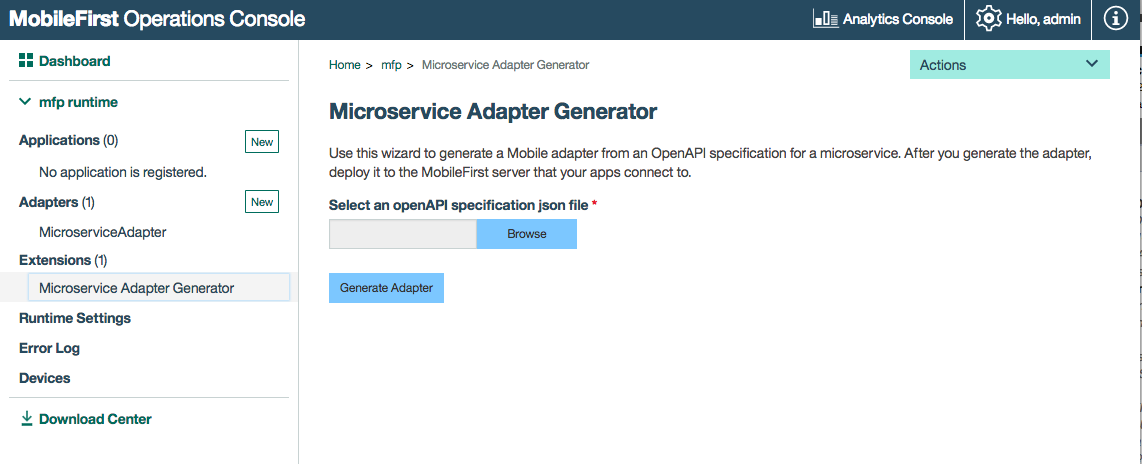
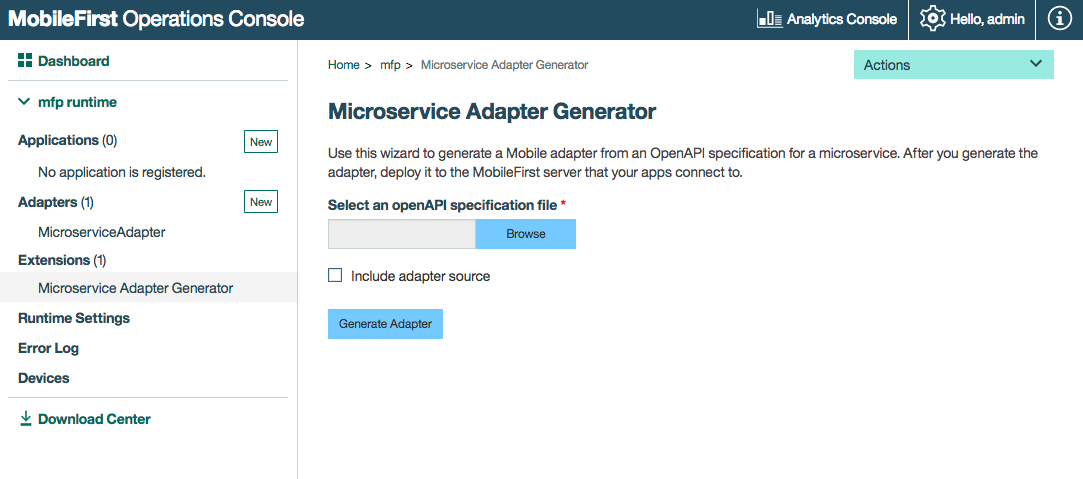
Added support for yaml, API-KEY and adapter source download

diff --git a/_posts/2017/2017-08-10-autogenerate-adapter-from-openapi-specification.md b/_posts/2017/2017-08-10-autogenerate-adapter-from-openapi-specification.md
@@ -29,7 +29,7 @@ An adapter can be created using either Maven commands or by using the MobileFirs
 The OpenAPI Specification, originally known as the Swagger Specification, is a specification for machine-readable interface files for describing, producing, consuming, and visualizing RESTful Web services. OpenAPI specification is adopted by many companies as the industry standard for defining REST APIs. OpenAPI specifications are the key to supporting a great toolchain for developers and is used for documenting the REST APIs. One of the greatest benefits of using OpenAPI Specification is that it can be used to generate the client libraries in a variety of programming languages, these client APIs can be used easily to transfer and retrieve information from the backend systems and services.
 
 ## Auto-generation of Adapter from OpenAPI Specification
-IBM MobileFirst Foundation Platform provides an extension Adapter that can be used to auto-generate adapters from OpenAPI specification. The extension adapter takes an OpenAPI specification json and generates the adapter from the Open API specification, using the client libraries generated from the OpenAPI specification, it then downloads the generated adapters. The adapter that is generated and downloaded can then be deployed to Mobile Foundation Server and can directly be used by the client applications. This takes the pain out from developers who would otherwise need to spend substantial time on developing the adapters instead of focusing on building the client applications.
+IBM MobileFirst Foundation Platform provides an extension Adapter that can be used to auto-generate adapters from OpenAPI specification. The extension adapter takes an OpenAPI specification, either json or yaml file, and generates the adapter from the Open API specification, using the client libraries generated from the OpenAPI specification, it then downloads the generated adapters. The adapter that is generated and downloaded can then be deployed to Mobile Foundation Server and can directly be used by the client applications. You can optionally download the adapter source code as zip file. The adapter source file can be modified and the adapter can be re-built. This takes the pain out from developers who would otherwise need to spend substantial time on developing the adapters instead of focusing on building the client applications.
 
 ***Note:**  Adapter Generation Feature is available on Mobile Foundation Devkits only. To use the adapter generation feature, JDK must be installed on the machine where Mobile Foundation is installed and the **JAVA_HOME** environment variable should  be set to the installed JDK path.*
 
@@ -44,7 +44,7 @@ IBM MobileFirst Foundation Platform ships an Extension Adapter, called Microserv
 
 ![Download Microservice Connector]({{site.baseurl}}/assets/blog/2017-08-10-autogenerate-adapter-from-openapi-specification/microservice-connector-in-downloadcenter-tools.png)
 
-Once deployed the Adapter will appear under the **Extensions** category in the left navigation pane of the MobileFirst Operations Console. Clicking the **Microservice Adapter Generator** will open the page where one can select the OpenAPI specification json of the microservice/backend system, to generate the adapter. Once the adapter is generated, the generated adapter will be automatically downloaded. Note that the first request to generate the adapter can take a while as Mobile Foundation needs to download a lot of maven dependencies that are requried for the adapter generation. The subsequent generation will be faster as maven dependencies are already stored in Maven local repository.
+Once deployed the Adapter will appear under the **Extensions** category in the left navigation pane of the MobileFirst Operations Console. Clicking the **Microservice Adapter Generator** will open the page where one can select the OpenAPI specification (.json or .yaml file) of the microservice/backend system, to generate the adapter. Once the adapter is generated, the generated adapter will be automatically downloaded. Optionally you can also download the adapter source code as zip and modify the adapter and can be re-built. Note that the first request to generate the adapter can take a while as Mobile Foundation needs to download a lot of maven dependencies that are requried for the adapter generation. The subsequent generation will be faster as maven dependencies are already stored in Maven local repository.
 
 ![Microservice Connector]({{site.baseurl}}/assets/blog/2017-08-10-autogenerate-adapter-from-openapi-specification/microservice-adapter-generator-ui.png)
 
@@ -53,7 +53,9 @@ The correctness of the adapter generated depends on the OpenAPI specification. T
 
 #### Add Security in OpenAPI specification
 
-For the adapter to connect to backend systems, security definitions should be added to the OpenAPI specification. Adapter generator supports **BASIC** authentication only. Authentication types such as **API Key** and **OAUTH2** is not supported currently, for connecting to backend systems. For **BASIC** authentication, security definition specification needs to be added to the specification json
+For the adapter to connect to backend systems, security definitions should be added to the OpenAPI specification. Adapter generator supports **BASIC** and **API Key** authentication only. 
+
+For **BASIC** authentication, security definition specification needs to be added to the specification file. Here is a json sample :
 
 ```javascript
     "securityDefinitions": {
@@ -65,6 +67,24 @@ For the adapter to connect to backend systems, security definitions should be ad
     "security": [
     {
         "basicAuth": []
+    }
+    ]
+
+```
+
+For **API Key**authentication, security definition specification needs to be added to the specification file. Here is a json sample :
+
+```javascript
+    "securityDefinitions": {
+        "clientIdHeader": {
+            "type": "apiKey",
+            "in": "header",
+            "name": "X-IBM-Client-Id"
+        }
+    },
+    "security": [
+    {
+        "clientIdHeader": []
     }
     ]
 
